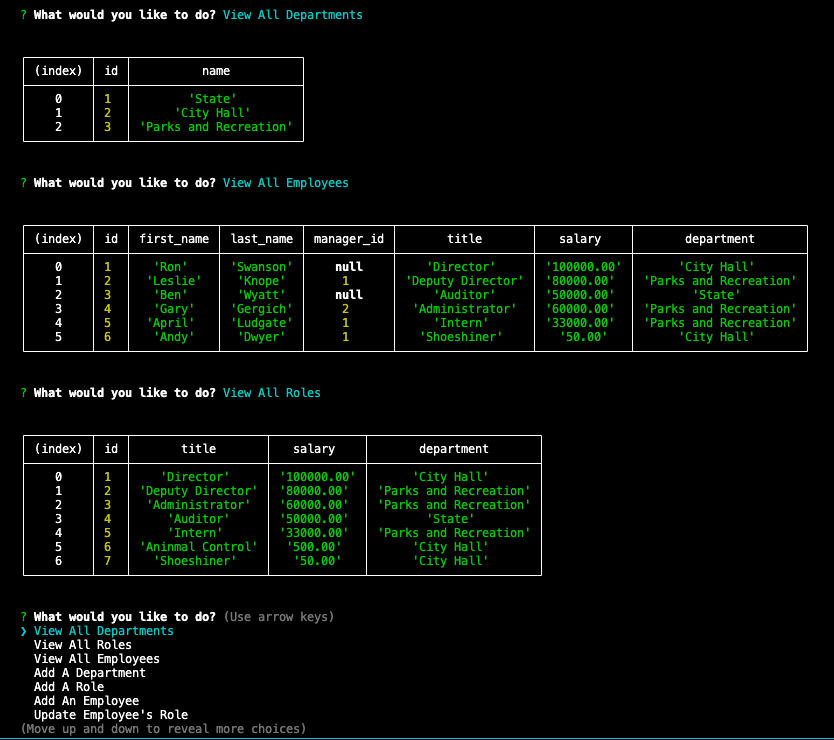
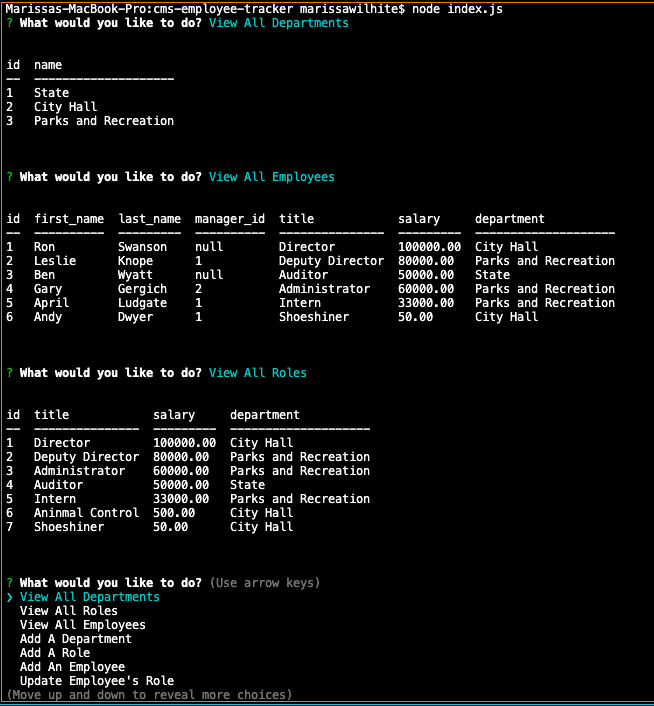
finish touches and demo added to README

diff --git a/index.js b/index.js
@@ -1,6 +1,7 @@
 const db = require("./db");
 const inquirer = require("inquirer");
 const process = require("process");
+const cTable = require("console.table");
 
 // Allows for a break between viewing the information and getting prompted with the menu again 
 const sleep = (ms = 1000) => new Promise((r) => setTimeout(r, ms));

diff --git a/README.md b/README.md
@@ -29,3 +29,4 @@ The employee tracker can be initialized by running the command `node index.js`. 
 * View Total Utilized Budgets by Department
 
 ## Walkthrough / Demo
+https://watch.screencastify.com/v/hGOFQIincuyM7LYMy2uo
